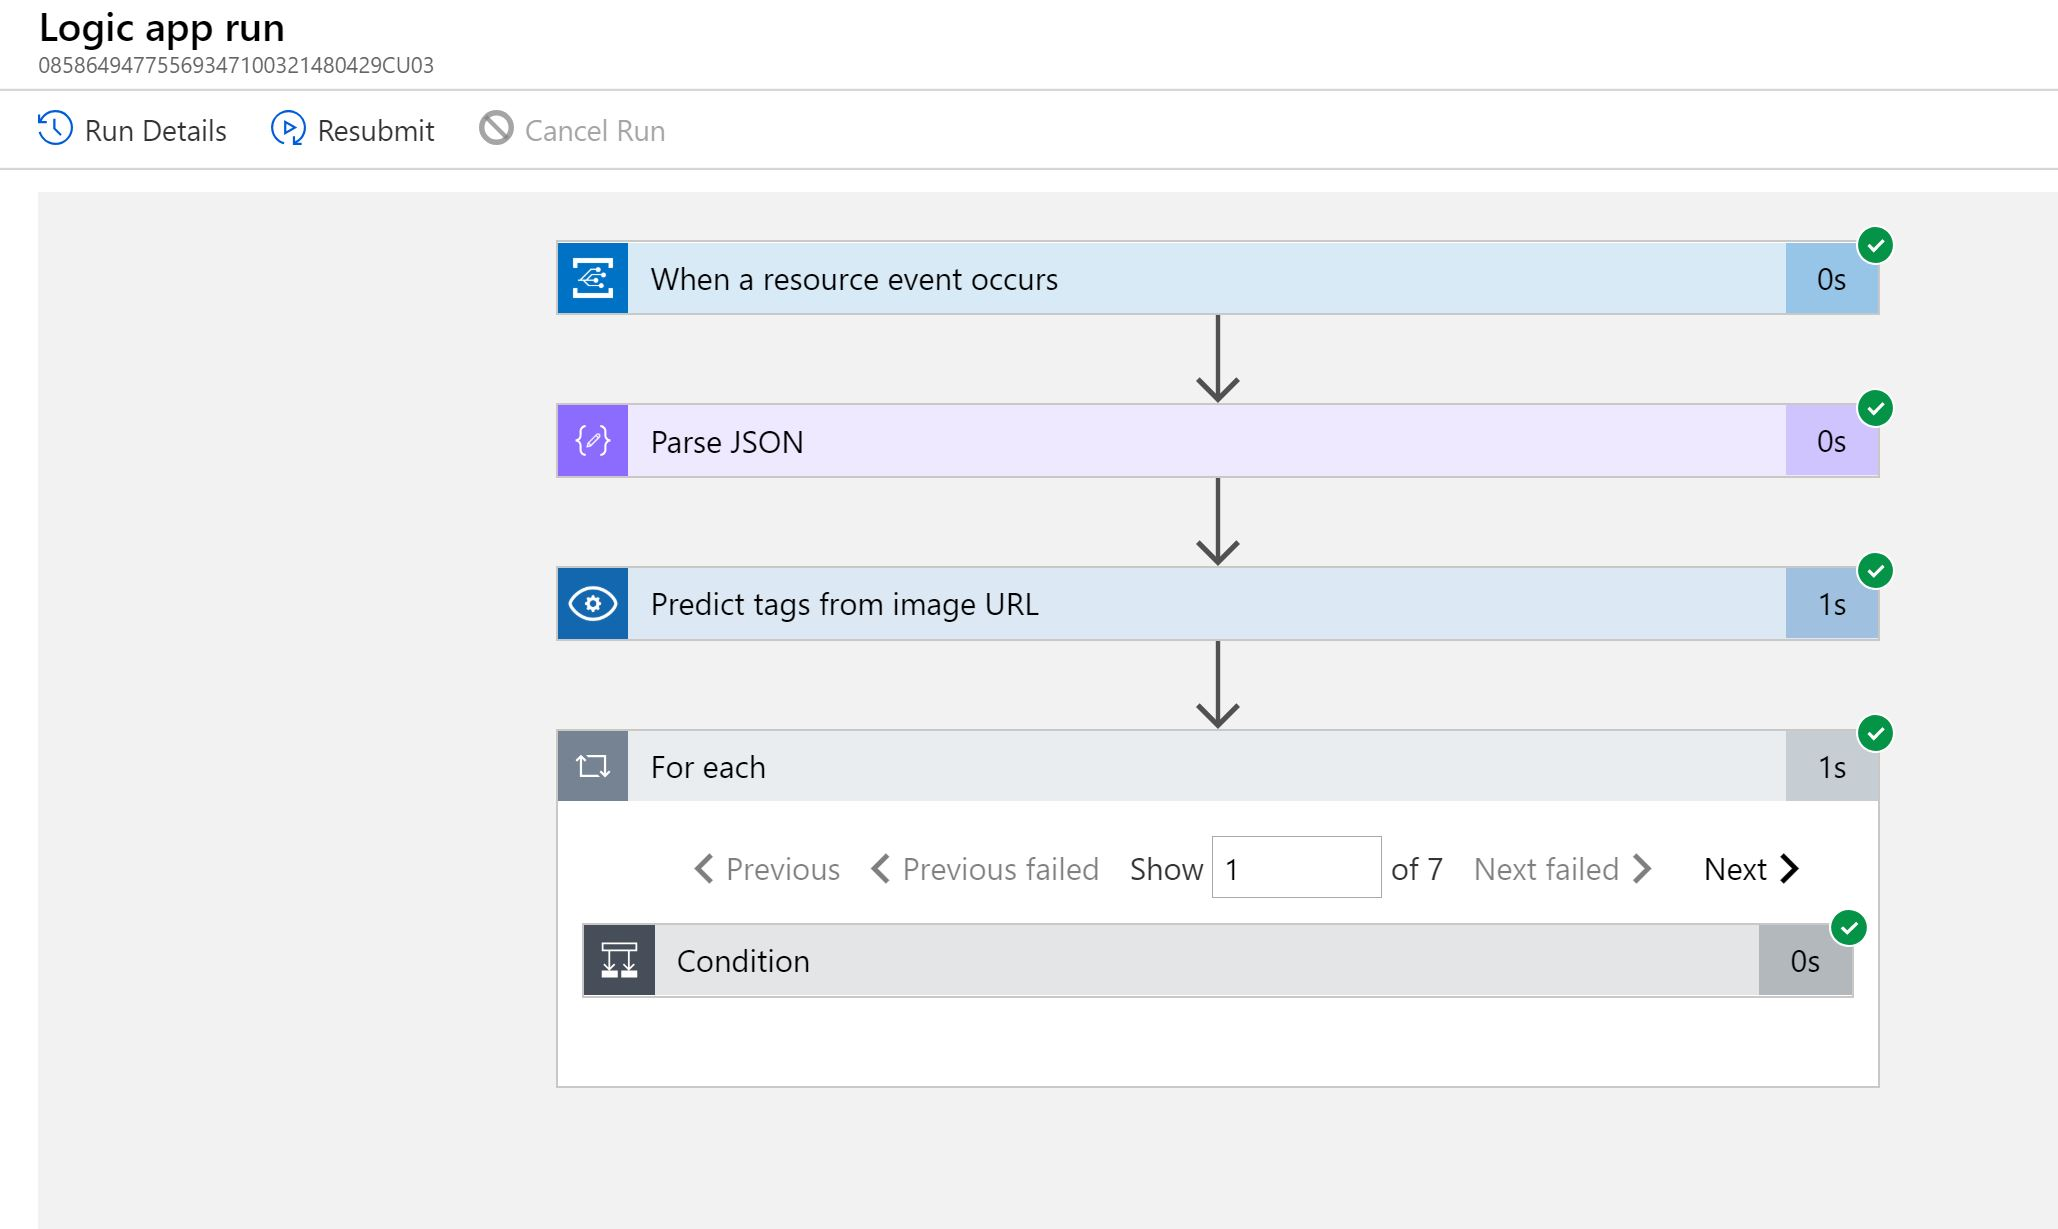
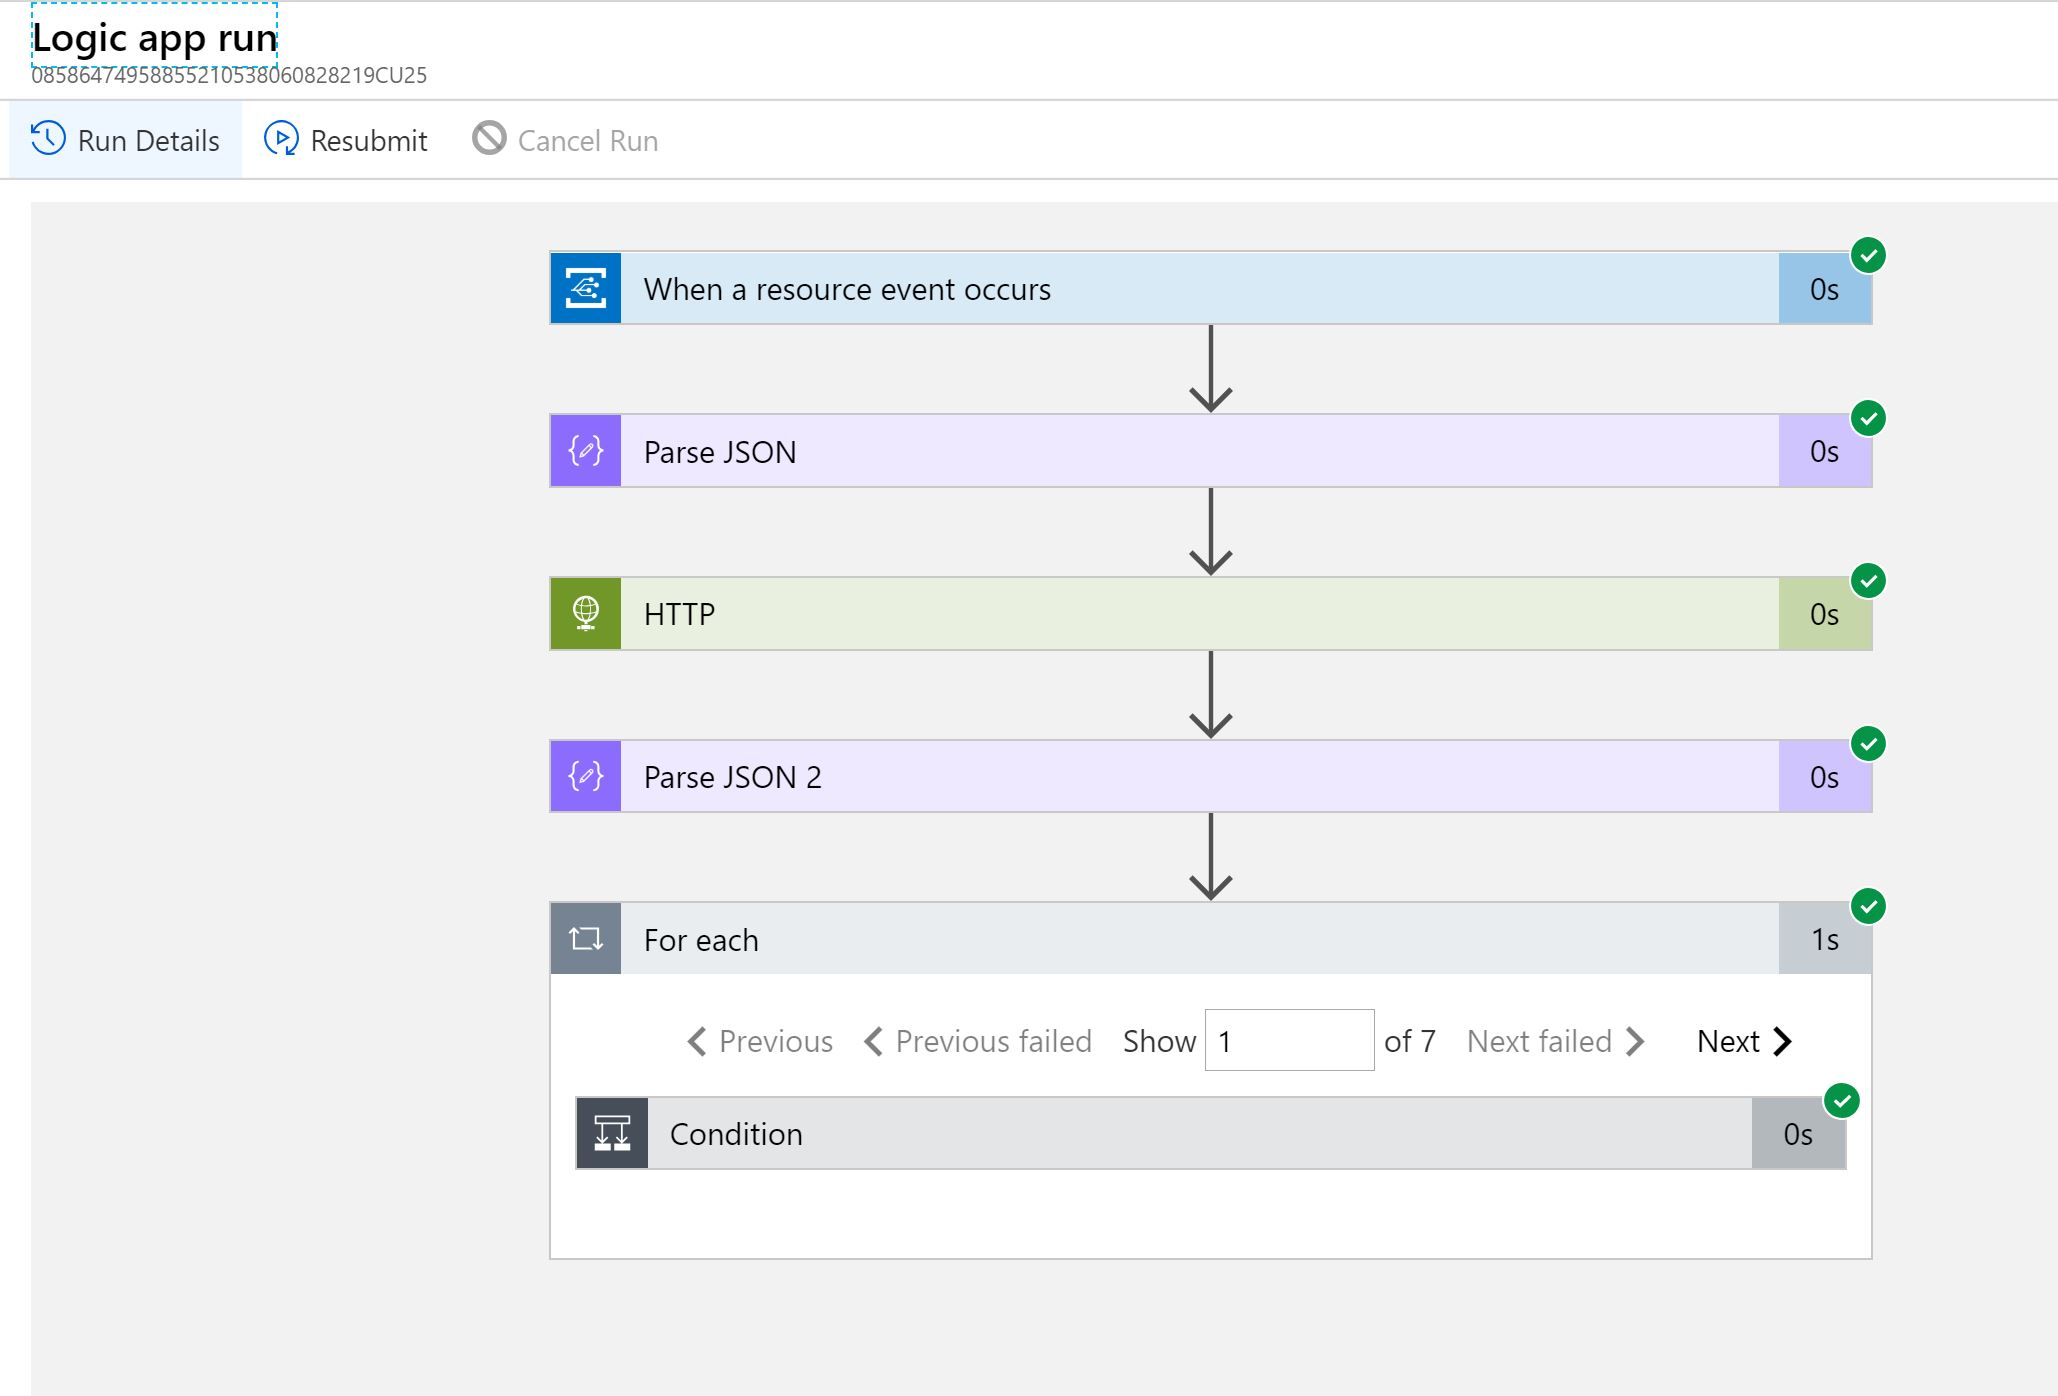
update logic apps content

diff --git a/README.md b/README.md
@@ -373,39 +373,55 @@ Select the options below:
 Then choose next step. Type **Parse JSON** and select the parse JSON operator as part of the data Data Operations category
 
 * **Content:** select the box and from the Dynamic Content box on the right, select **Body**
-* **Schema:** select this box and enter the JSON schema provided in the [logic-app-schema file](sample-code/logic-app-demo/logic-app-schema.txt)
+* **Schema:** select this box and enter the JSON schema provided in the [logic-app-schema1 file](sample-code/logic-app-demo/logic-app-schema1.json)
 
 ![Parse JSON](docs-images/parse-json.JPG)
 
-Then choose next step. Type Custom Vision and select the option at the top and then select **Predict tags from image URL(Preview)**
+Then choose next step. Type **HTTP** and select the HTTP option as below
 
-Enter a name for the connection (example: customvisionconnection) and enter the prediction key from the Custom Vision service dog classification project
+![HTTP Connection](docs-images/http-connector.JPG)
 
-![Custom Vision Connection](docs-images/custom-vision-connection.JPG)
+Now we need to fill in the details of the REST API request - similar to using Postman App.
 
-On the next view, enter the Project ID from the custom Vision dog classification project
-Put your cursor in the Image URL box and on the right in Dynamic Context find URL and select it
+* Method: POST
+* URI: enter Prediction URL from Custom Vision Service
+* Headers:
+    * "Prediction-Key" : enter your prediction key from the custom vision service
+    * "Content-Type" : "application/json"
+* Queries: enter nothing
+* Body: {"Url": "REPLACE WITH DYNAMIC CONTENT URL"}
 
-![get URL to predict](docs-images/get-url-to-predict.JPG)
+![HTTP info](docs-images/http-request.JPG)
+
+Choose next step
+
+Then choose next step. Type **Parse JSON** and select the parse JSON operator again as part of the data Data Operations category
+
+* **Content:** select the box and from the Dynamic Content box on the right, select **Body**
+* **Schema:** select this box and enter the JSON schema provided in the [logic-app-schema2 file](sample-code/logic-app-demo/logic-app-schema2.json) 
+
+> the difference between the two parse JSON is, the first one parses the event grid response about the blob storage image URL, the second one parses the JSON from the custom vision service API call return
+
+![Parse JSON](docs-images/parse-json-2.JPG)
 
 Choose next step
 
 type **for each** and select the grey control step called for each
-Once selected in the output from previous step box, select the box and from Dynamic content select **Predictions**
+Once selected in the output from previous step box, select the box and from Dynamic content select **predictions** from the Parse JSON 2 category
 
-![For each prediction](docs-images/for-each-prediction-add-action.JPG)
+![For each prediction](docs-images/for-each-prediction.JPG)
 
 Choose **Add an action**
 
 Search Control, select the control icon and then from the results, select **Condition**
 
-![If Statement](docs-images/if-statement.JPG)
+![If Statement](docs-images/control-condition.JPG)
 
-In the Condition box, select choose a value. From Dynamic content find **Prediction Probabilities**
+In the Condition box, select choose a value. From Dynamic content find Parse Json 2 and then **probability**
 
-Set the condition to be Prediction Probabilities are greater than 0.7 (as shown below)
+Set the condition to be probability greater than 0.7 (as shown below)
 
-![Condition value](docs-images/high-prediction.JPG)
+![Condition value](docs-images/probability.JPG)
 
 In the **If True** box select **Add an action**
 
@@ -417,11 +433,11 @@ In connection name enter **results** and select your results blob storage accoun
 
 In folder path, select the folder icon, far right, and choose the container name you created that is populated
 
-Select the Blob name field and enter: result-(then from the Dynamic content box select ID)
+Select the Blob name field and enter: result-(then from the Dynamic content box under Parse Json (1) select **id**)
 
-Under Blob Content, select the field and in the Dynamic Content box on the right, select **see more** under the predict image from URL section. Then select Prediction tag, enter a colon ":" and then select Prediction Probability
+Under Blob Content, select the field and in the Dynamic Content box on the right, select **see more** under the Parse Json 2 section. Then select **tagName**, enter a colon ":" and then select **probability**
 
-![Azure Blob Storage results options](docs-images/blob-content-see-more.JPG)
+![Azure Blob Storage results options](docs-images/create-blob-connector.JPG)
 
 Finally save the logic app in the top action bar
 
